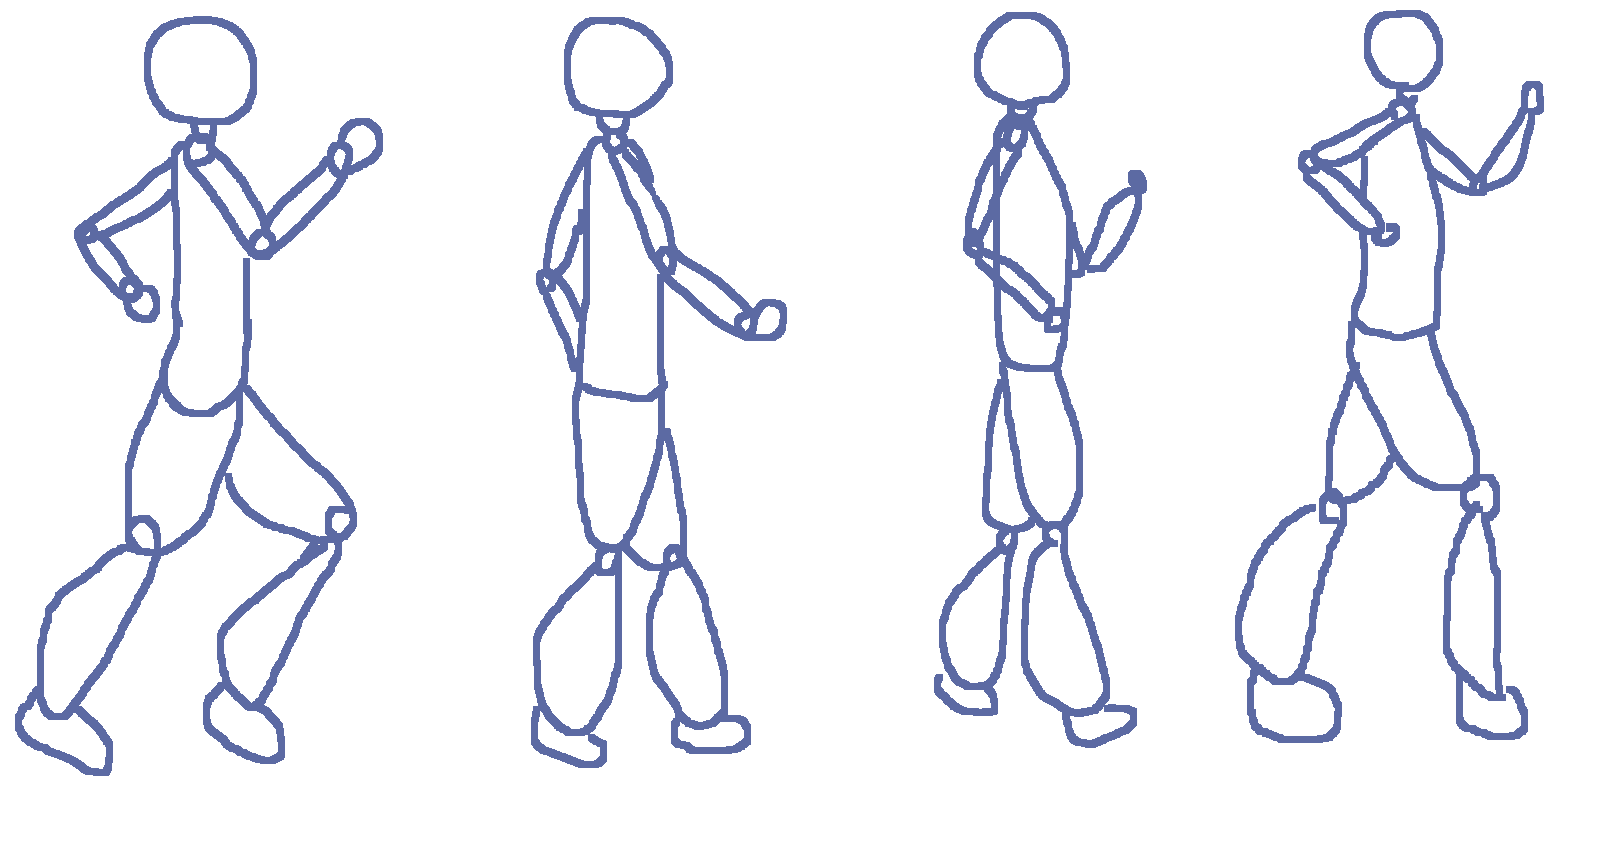
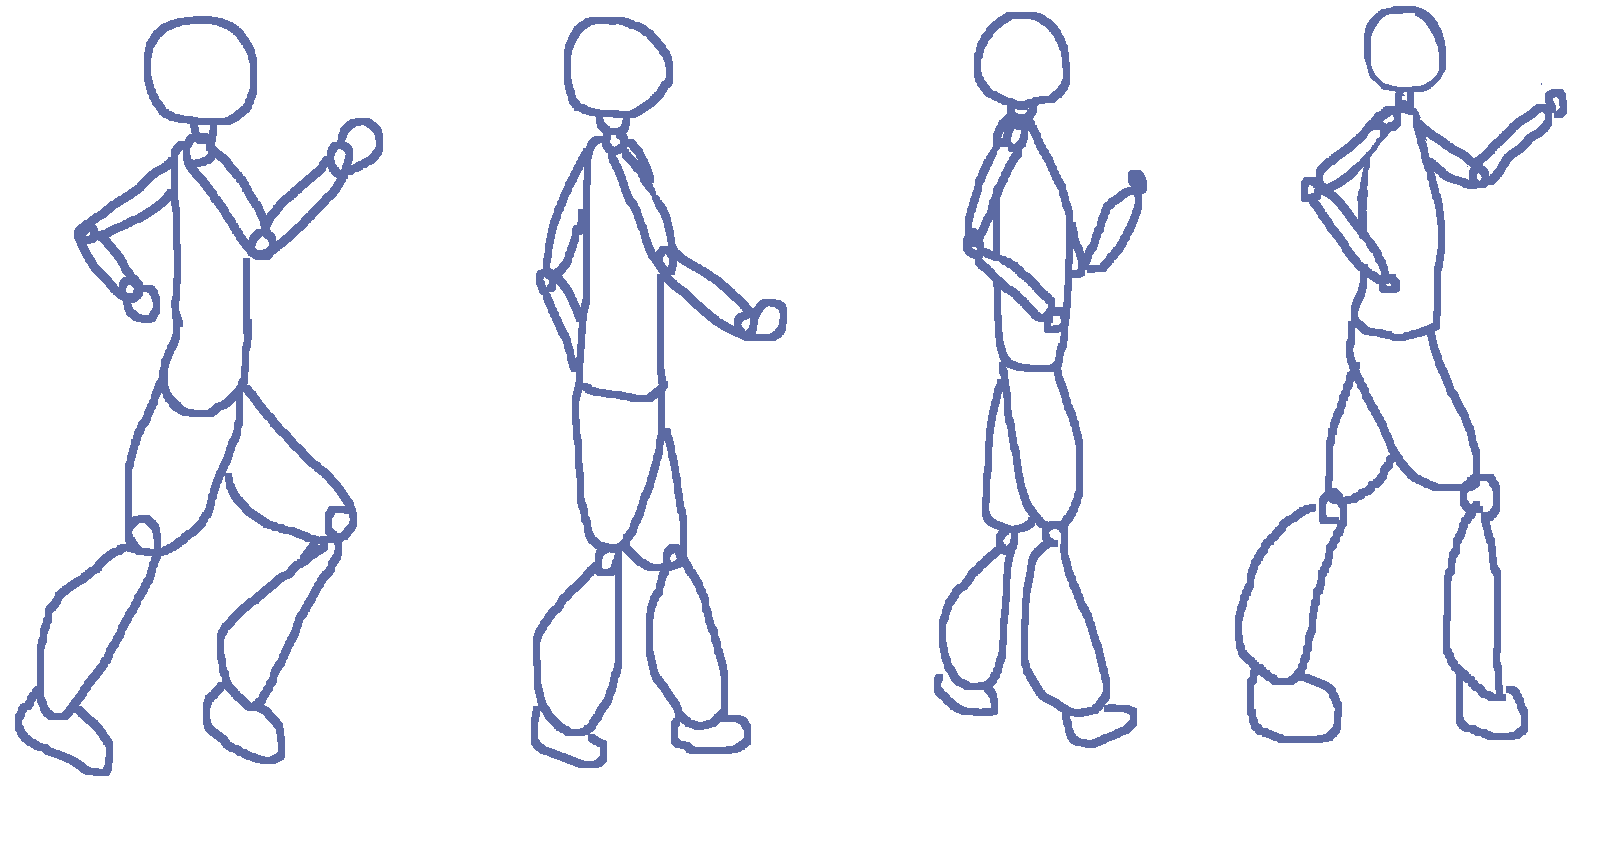
l

Changed region(s): [[0.8125, 0.0612, 1.0, 0.3671], [0.8438, 0.0, 0.9062, 0.0306], [0.5938, 0.1835, 0.625, 0.2141]]

diff --git a/run/Project/GameProject/Game/puzzle.h b/run/Project/GameProject/Game/puzzle.h
@@ -4,8 +4,18 @@
 class Puzzle : public Base
 {
     CImage m_img[4];
-
     int m_field[12][6];
+    int m_otiru;
+
+    const int BLOCK_SIZE = 75;
+    const int FIELD_X = 1215;
+    const int FIELD_Y = 90;
+
+    int m_color1;
+    int m_color2;
+
+    int m_blockX;
+    int m_blockY;
 
 public:
     Puzzle();
